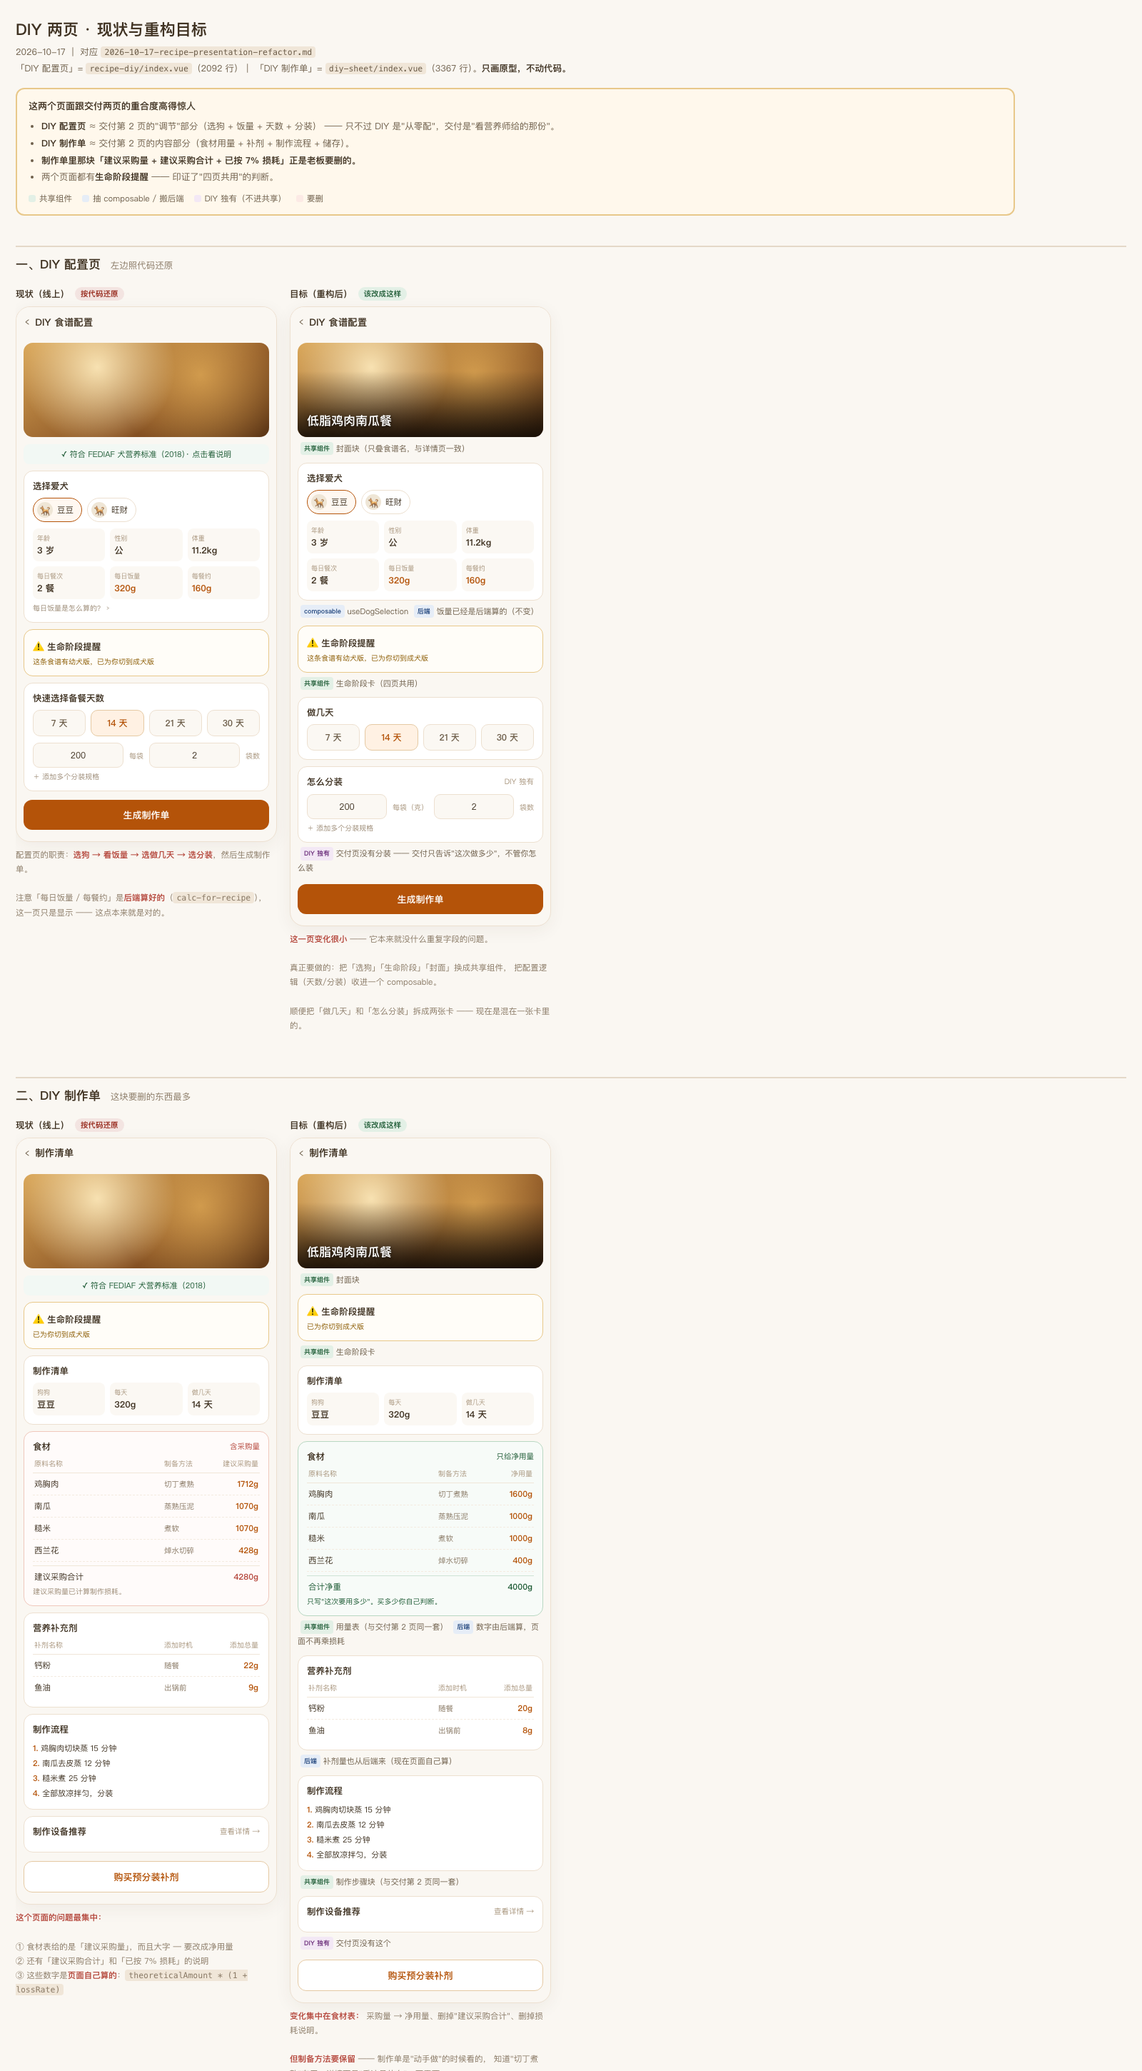
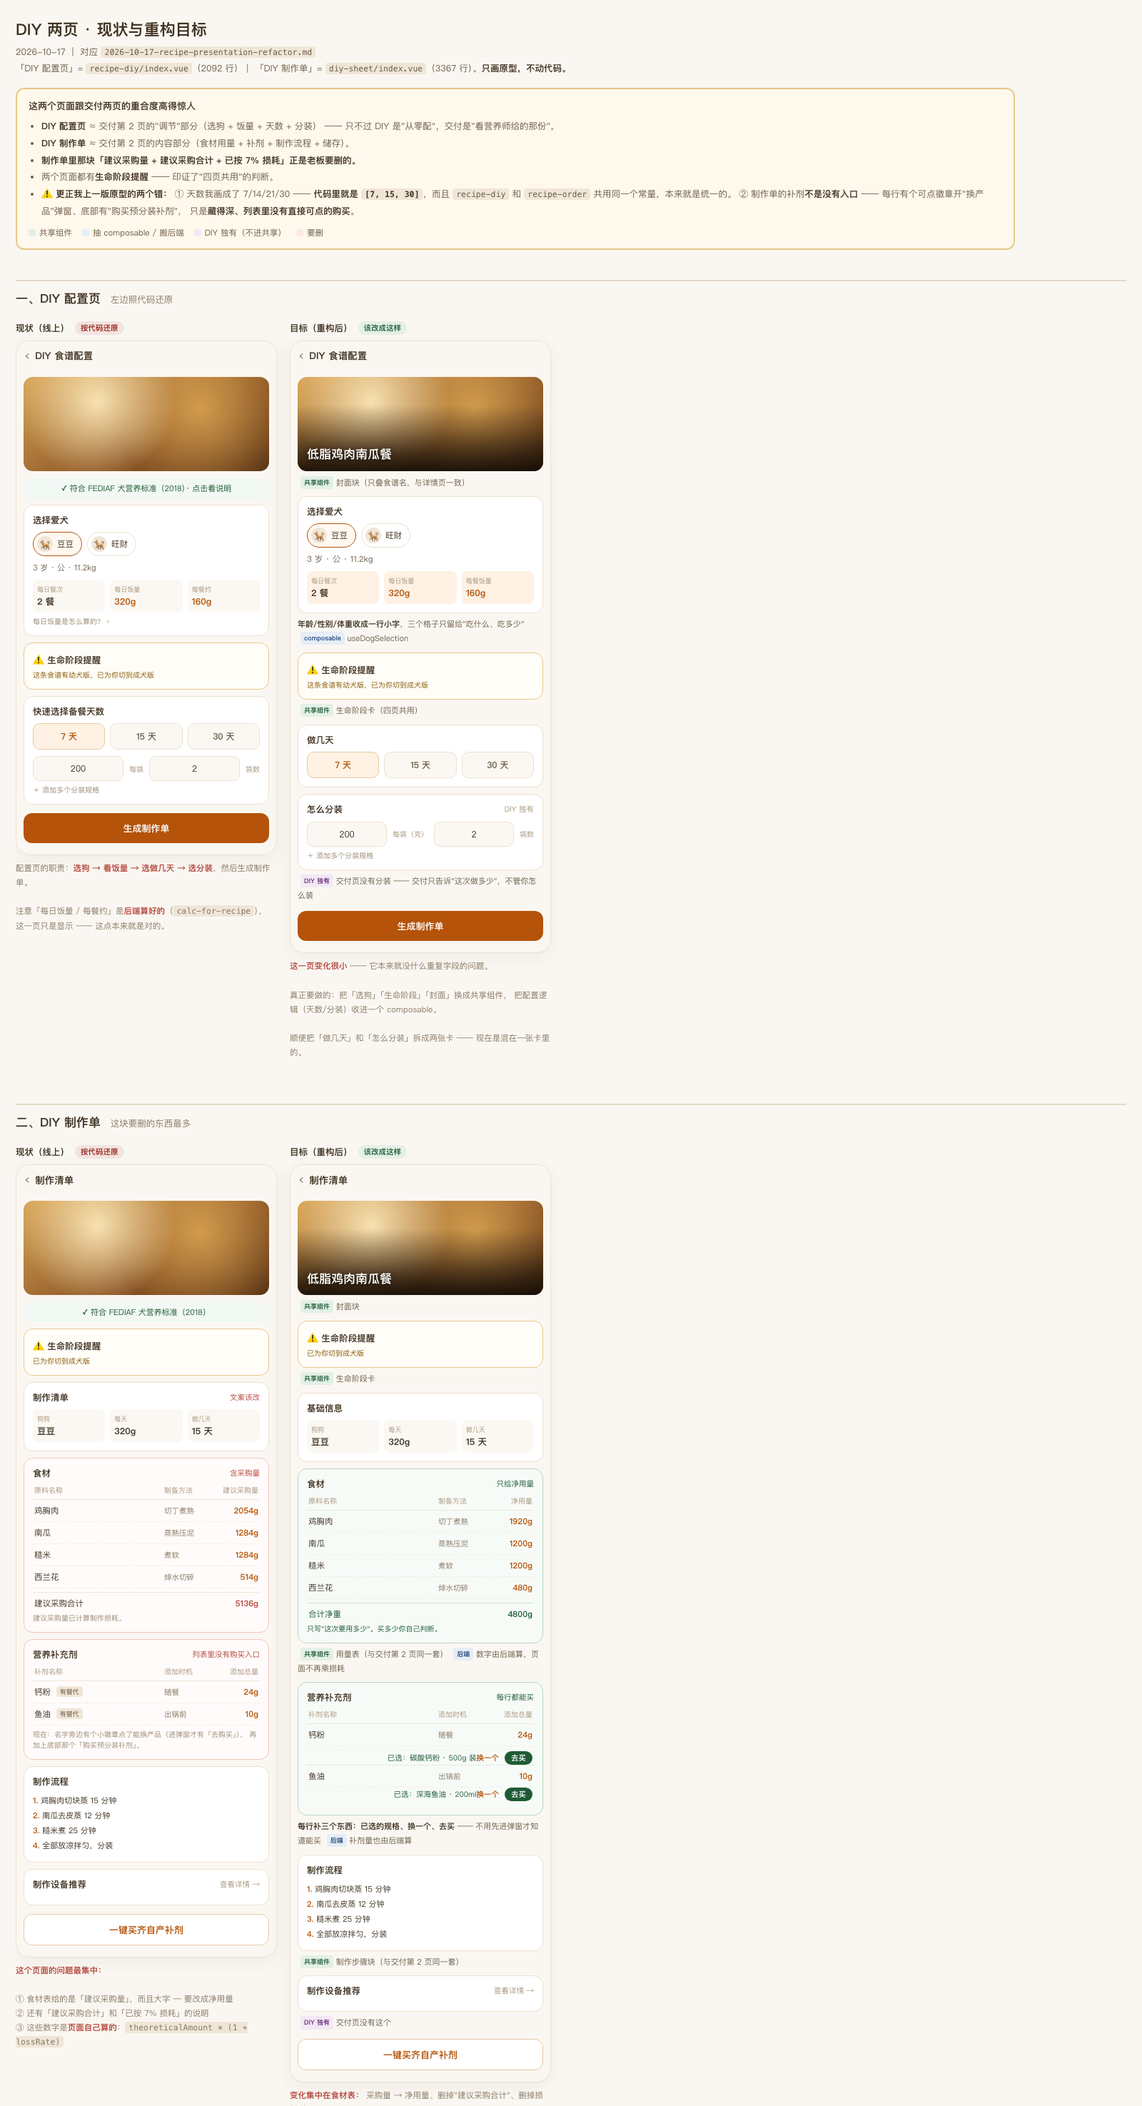
docs: DIY 两页四条修改落地（原型 + 重构需求）
老板审完原型给的四条。

## DIY 配置页

**① 爱犬信息收成一行小字**
年龄/性别/体重原来占三个格子 —— 太占篇幅。
改成选择器下方一行「3 岁 · 公 · 11.2kg」，
**三个格子只留给每日餐次 / 每日饭量 / 每餐饭量**（这三个才是决定配方的）。

**② 天数只展示 7 / 15 / 30 —— 代码里已经是了**

查了 `miniapp/src/utils/order-package-plan.ts:28`：

```js
export const ORDER_CYCLE_OPTIONS = [7, 15, 30] as const
export const DEFAULT_ORDER_CYCLE_DAYS = 7
```

而且 `recipe-diy` 和 `recipe-order` **共用同一个常量** —— 本来就是统一的。

**❌ 我上一版原型画成 7/14/21/30 是我编的**，不是代码里的。

## DIY 制作单

**③ 「制作清单」→「基础信息」**
那块列的是狗 / 每天多少 / 做几天，本来就是基础信息。

**④ 补剂表每行加购买入口**

现在只有两个入口，而且都藏得深：
- 名字旁边一个小徽章（点了才进弹窗，弹窗里才有「去购买」）
- 底部「购买预分装补剂」

**顾客不知道列表里就能买。** 改成每行直接给：
**已选规格 / 换一个 / 去买**。

补剂有两种来源，两种入口都要留：
- 每行「去买」= 买这一个（联盟跳转 / 加入自产订单）
- 底部「一键买齐自产补剂」= 把自产的都加上

只有底部按钮时，顾客会以为"补剂得一起买，不能单独挑"。

## 顺手修的两处原型错误

- 制作单「做几天」原来写着 14 天（不在 7/15/30 里），
  而净用量是按 14 天算的 —— 一起改成 15 天，数字全部重算
  （净 4800g / 采购 5136g / 补剂 24g+10g）
- 现状页原来被我一起改成了"基础信息"，已恢复成代码里真实的"制作清单"

diff --git a/docs/prototypes/2026-10-17-diy-pages-refactor.html b/docs/prototypes/2026-10-17-diy-pages-refactor.html
@@ -142,6 +142,11 @@
     <li><b>DIY 制作单</b> ≈ 交付第 2 页的内容部分（食材用量 + 补剂 + 制作流程 + 储存）。</li>
     <li><b>制作单里那块「建议采购量 + 建议采购合计 + 已按 7% 损耗」正是老板要删的。</b></li>
     <li>两个页面都有<b>生命阶段提醒</b> —— 印证了"四页共用"的判断。</li>
+    <li><b>⚠ 更正我上一版原型的两个错：</b>
+      ① 天数我画成了 7/14/21/30 —— <b>代码里就是 <code>[7, 15, 30]</b></code>，而且
+      <code>recipe-diy</code> 和 <code>recipe-order</code> 共用同一个常量，本来就是统一的。
+      ② 制作单的补剂<b>不是没有入口</b> —— 每行有个可点徽章开"换产品"弹窗、底部有"购买预分装补剂"，
+      只是<b>藏得深、列表里没有直接可点的购买</b>。</li>
   </ul>
   <div class="legend">
     <span><i style="background:#E3F0E6"></i>共享组件</span>
@@ -172,10 +177,10 @@
             <div class="dog dog--on"><span class="dog__av">🐕</span>豆豆</div>
             <div class="dog"><span class="dog__av">🐕</span>旺财</div>
           </div>
+          <div class="note-line" style="margin-top:8px;font-size:11px;color:#6E5F4B">
+            3 岁 · 公 · 11.2kg
+          </div>
           <div class="facts" style="margin-top:9px">
-            <div class="fact"><div class="fact__l">年龄</div><div class="fact__v">3 岁</div></div>
-            <div class="fact"><div class="fact__l">性别</div><div class="fact__v">公</div></div>
-            <div class="fact"><div class="fact__l">体重</div><div class="fact__v">11.2kg</div></div>
             <div class="fact"><div class="fact__l">每日餐次</div><div class="fact__v">2 餐</div></div>
             <div class="fact"><div class="fact__l">每日饭量</div><div class="fact__v fact__v--calc">320g</div></div>
             <div class="fact"><div class="fact__l">每餐约</div><div class="fact__v fact__v--calc">160g</div></div>
@@ -193,9 +198,8 @@
         <div class="card">
           <div class="sec__t">快速选择备餐天数</div>
           <div class="days">
-            <div class="day">7 天</div>
-            <div class="day day--on">14 天</div>
-            <div class="day">21 天</div>
+            <div class="day day--on">7 天</div>
+            <div class="day">15 天</div>
             <div class="day">30 天</div>
           </div>
           <div class="pack">
@@ -239,18 +243,18 @@
             <div class="dog dog--on"><span class="dog__av">🐕</span>豆豆</div>
             <div class="dog"><span class="dog__av">🐕</span>旺财</div>
           </div>
+          <div style="font-size:11.5px;color:#6E5F4B;margin-top:8px">
+            3 岁 · 公 · 11.2kg
+          </div>
           <div class="facts" style="margin-top:9px">
-            <div class="fact"><div class="fact__l">年龄</div><div class="fact__v">3 岁</div></div>
-            <div class="fact"><div class="fact__l">性别</div><div class="fact__v">公</div></div>
-            <div class="fact"><div class="fact__l">体重</div><div class="fact__v">11.2kg</div></div>
-            <div class="fact"><div class="fact__l">每日餐次</div><div class="fact__v">2 餐</div></div>
-            <div class="fact"><div class="fact__l">每日饭量</div><div class="fact__v fact__v--calc">320g</div></div>
-            <div class="fact"><div class="fact__l">每餐约</div><div class="fact__v fact__v--calc">160g</div></div>
+            <div class="fact" style="background:#FFF1E3"><div class="fact__l">每日餐次</div><div class="fact__v">2 餐</div></div>
+            <div class="fact" style="background:#FFF1E3"><div class="fact__l">每日饭量</div><div class="fact__v fact__v--calc">320g</div></div>
+            <div class="fact" style="background:#FFF1E3"><div class="fact__l">每餐饭量</div><div class="fact__v fact__v--calc">160g</div></div>
           </div>
         </div>
         <div class="sub" style="font-size:11px;margin:-3px 0 9px">
+          <b>年龄/性别/体重收成一行小字</b>，三个格子只留给"吃什么、吃多少"
           <span class="mark mark--logic">composable</span> useDogSelection
-          <span class="mark mark--logic">后端</span> 饭量已经是后端算的（不变）
         </div>
 
         <div class="card card--warn">
@@ -266,9 +270,8 @@
         <div class="card">
           <div class="sec__t">做几天</div>
           <div class="days">
-            <div class="day">7 天</div>
-            <div class="day day--on">14 天</div>
-            <div class="day">21 天</div>
+            <div class="day day--on">7 天</div>
+            <div class="day">15 天</div>
             <div class="day">30 天</div>
           </div>
         </div>
@@ -324,30 +327,34 @@
         </div>
 
         <div class="card">
-          <div class="sec__t">制作清单</div>
+          <div class="sec__t">制作清单 <em style="color:#b4453a">文案该改</em></div>
           <div class="facts">
             <div class="fact"><div class="fact__l">狗狗</div><div class="fact__v">豆豆</div></div>
             <div class="fact"><div class="fact__l">每天</div><div class="fact__v">320g</div></div>
-            <div class="fact"><div class="fact__l">做几天</div><div class="fact__v">14 天</div></div>
+            <div class="fact"><div class="fact__l">做几天</div><div class="fact__v">15 天</div></div>
           </div>
         </div>
 
         <div class="card card--del">
           <div class="sec__t">食材 <em style="color:#b4453a">含采购量</em></div>
           <div class="thead"><span class="th-n">原料名称</span><span class="th-m">制备方法</span><span class="th-r">建议采购量</span></div>
-          <div class="item"><span class="it-n">鸡胸肉</span><span class="it-m">切丁煮熟</span><span class="it-r">1712g</span></div>
-          <div class="item"><span class="it-n">南瓜</span><span class="it-m">蒸熟压泥</span><span class="it-r">1070g</span></div>
-          <div class="item"><span class="it-n">糙米</span><span class="it-m">煮软</span><span class="it-r">1070g</span></div>
-          <div class="item"><span class="it-n">西兰花</span><span class="it-m">焯水切碎</span><span class="it-r">428g</span></div>
-          <div class="total-line"><span>建议采购合计</span><b>4280g</b></div>
+          <div class="item"><span class="it-n">鸡胸肉</span><span class="it-m">切丁煮熟</span><span class="it-r">2054g</span></div>
+          <div class="item"><span class="it-n">南瓜</span><span class="it-m">蒸熟压泥</span><span class="it-r">1284g</span></div>
+          <div class="item"><span class="it-n">糙米</span><span class="it-m">煮软</span><span class="it-r">1284g</span></div>
+          <div class="item"><span class="it-n">西兰花</span><span class="it-m">焯水切碎</span><span class="it-r">514g</span></div>
+          <div class="total-line"><span>建议采购合计</span><b>5136g</b></div>
           <div class="note-line">建议采购量已计算制作损耗。</div>
         </div>
 
-        <div class="card">
-          <div class="sec__t">营养补充剂</div>
+        <div class="card card--del">
+          <div class="sec__t">营养补充剂 <em style="color:#b4453a">列表里没有购买入口</em></div>
           <div class="thead"><span class="th-n">补剂名称</span><span class="th-m">添加时机</span><span class="th-r">添加总量</span></div>
-          <div class="item"><span class="it-n">钙粉</span><span class="it-m">随餐</span><span class="it-r">22g</span></div>
-          <div class="item"><span class="it-n">鱼油</span><span class="it-m">出锅前</span><span class="it-r">9g</span></div>
+          <div class="item"><span class="it-n">钙粉 <span class="mark mark--keep">有替代</span></span><span class="it-m">随餐</span><span class="it-r">24g</span></div>
+          <div class="item"><span class="it-n">鱼油 <span class="mark mark--keep">有替代</span></span><span class="it-m">出锅前</span><span class="it-r">10g</span></div>
+          <div class="note-line">
+            现在：名字旁边有个小徽章点了能换产品（进弹窗才有「去购买」），
+            再加上底部那个「购买预分装补剂」。
+          </div>
         </div>
 
         <div class="card">
@@ -364,7 +371,7 @@
           <div class="sec__t">制作设备推荐 <em>查看详情 →</em></div>
         </div>
 
-        <div class="btn btn--line">购买预分装补剂</div>
+        <div class="btn btn--line">一键买齐自产补剂</div>
 
       </div>
     </div>
@@ -400,23 +407,23 @@
         </div>
 
         <div class="card">
-          <div class="sec__t">制作清单</div>
+          <div class="sec__t">基础信息</div>
           <div class="facts">
             <div class="fact"><div class="fact__l">狗狗</div><div class="fact__v">豆豆</div></div>
             <div class="fact"><div class="fact__l">每天</div><div class="fact__v">320g</div></div>
-            <div class="fact"><div class="fact__l">做几天</div><div class="fact__v">14 天</div></div>
+            <div class="fact"><div class="fact__l">做几天</div><div class="fact__v">15 天</div></div>
           </div>
         </div>
 
         <div class="card" style="border-color:#B9D8C2;background:#F7FBF8">
           <div class="sec__t">食材 <em style="color:#1e5b35">只给净用量</em></div>
           <div class="thead"><span class="th-n">原料名称</span><span class="th-m">制备方法</span><span class="th-r">净用量</span></div>
-          <div class="item"><span class="it-n">鸡胸肉</span><span class="it-m">切丁煮熟</span><span class="it-r">1600g</span></div>
-          <div class="item"><span class="it-n">南瓜</span><span class="it-m">蒸熟压泥</span><span class="it-r">1000g</span></div>
-          <div class="item"><span class="it-n">糙米</span><span class="it-m">煮软</span><span class="it-r">1000g</span></div>
-          <div class="item"><span class="it-n">西兰花</span><span class="it-m">焯水切碎</span><span class="it-r">400g</span></div>
+          <div class="item"><span class="it-n">鸡胸肉</span><span class="it-m">切丁煮熟</span><span class="it-r">1920g</span></div>
+          <div class="item"><span class="it-n">南瓜</span><span class="it-m">蒸熟压泥</span><span class="it-r">1200g</span></div>
+          <div class="item"><span class="it-n">糙米</span><span class="it-m">煮软</span><span class="it-r">1200g</span></div>
+          <div class="item"><span class="it-n">西兰花</span><span class="it-m">焯水切碎</span><span class="it-r">480g</span></div>
           <div class="total-line" style="border-color:#CFE3D5;color:#1e5b35">
-            <span>合计净重</span><b style="color:#1e5b35">4000g</b>
+            <span>合计净重</span><b style="color:#1e5b35">4800g</b>
           </div>
           <div class="note-line" style="color:#1e5b35">
             只写"这次要用多少"。买多少你自己判断。
@@ -427,14 +434,31 @@
           <span class="mark mark--logic">后端</span> 数字由后端算，页面不再乘损耗
         </div>
 
-        <div class="card">
-          <div class="sec__t">营养补充剂</div>
+        <div class="card" style="border-color:#B9D8C2;background:#F7FBF8">
+          <div class="sec__t">营养补充剂 <em style="color:#1e5b35">每行都能买</em></div>
           <div class="thead"><span class="th-n">补剂名称</span><span class="th-m">添加时机</span><span class="th-r">添加总量</span></div>
-          <div class="item"><span class="it-n">钙粉</span><span class="it-m">随餐</span><span class="it-r">20g</span></div>
-          <div class="item"><span class="it-n">鱼油</span><span class="it-m">出锅前</span><span class="it-r">8g</span></div>
+          <div class="item">
+            <span class="it-n">钙粉</span><span class="it-m">随餐</span><span class="it-r">24g</span>
+          </div>
+          <div class="item" style="border-bottom:1px dashed #CFE3D5;padding-bottom:0">
+            <span class="it-n" style="flex:1"></span>
+            <span style="font-size:10.5px;color:#1e5b35">已选：碳酸钙粉 · 500g 装</span>
+            <span style="font-size:10.5px;color:#B45309;font-weight:700;margin-left:auto">换一个</span>
+            <span style="font-size:10.5px;color:#fff;background:#1e5b35;border-radius:999px;padding:2px 9px;font-weight:700;margin-left:8px">去买</span>
+          </div>
+          <div class="item">
+            <span class="it-n">鱼油</span><span class="it-m">出锅前</span><span class="it-r">10g</span>
+          </div>
+          <div class="item" style="border-bottom:0;padding-top:0">
+            <span class="it-n" style="flex:1"></span>
+            <span style="font-size:10.5px;color:#1e5b35">已选：深海鱼油 · 200ml</span>
+            <span style="font-size:10.5px;color:#B45309;font-weight:700;margin-left:auto">换一个</span>
+            <span style="font-size:10.5px;color:#fff;background:#1e5b35;border-radius:999px;padding:2px 9px;font-weight:700;margin-left:8px">去买</span>
+          </div>
         </div>
         <div class="sub" style="font-size:11px;margin:-3px 0 9px">
-          <span class="mark mark--logic">后端</span> 补剂量也从后端来（现在页面自己算）
+          <b>每行补三个东西：已选的规格、换一个、去买</b> —— 不用先进弹窗才知道能买
+          <span class="mark mark--logic">后端</span> 补剂量也由后端算
         </div>
 
         <div class="card">
@@ -457,7 +481,7 @@
           <span class="mark mark--diy">DIY 独有</span> 交付页没有这个
         </div>
 
-        <div class="btn btn--line">购买预分装补剂</div>
+        <div class="btn btn--line">一键买齐自产补剂</div>
 
       </div>
     </div>
@@ -503,6 +527,30 @@
     <td style="color:#23477e;font-weight:700">抽逻辑</td>
     <td>选狗 / 天数选择 / 分装配置</td>
     <td><code>useDogSelection</code> + <code>usePackagePlan</code></td>
+  </tr>
+  <tr>
+    <td class="new" style="font-weight:700">改</td>
+    <td><b>爱犬信息收成一行小字</b></td>
+    <td>年龄/性别/体重不再占三个格子（太占篇幅），改成选择器下方一行
+      「3 岁 · 公 · 11.2kg」；<b>三个格子只留给每日餐次 / 每日饭量 / 每餐饭量</b></td>
+  </tr>
+  <tr>
+    <td class="new" style="font-weight:700">确认</td>
+    <td><b>天数只留 7 / 15 / 30</b></td>
+    <td><b>代码里已经是这样</b>（<code>ORDER_CYCLE_OPTIONS = [7, 15, 30]</code>），
+      而且 <code>recipe-diy</code> 与 <code>recipe-order</code> 共用同一个常量 —— 无需改动。
+      <b>我上一版原型画成 7/14/21/30 是我编的</b></td>
+  </tr>
+  <tr>
+    <td class="new" style="font-weight:700">改</td>
+    <td><b>制作单「制作清单」→「基础信息」</b></td>
+    <td>原本文案不准确 —— 那块列的是狗、每天多少、做几天，属于基础信息</td>
+  </tr>
+  <tr>
+    <td class="new" style="font-weight:700">改</td>
+    <td><b>补剂表每行加「换一个 / 去买」</b></td>
+    <td>现在只有：名字旁边一个小徽章（进弹窗才有去购买）+ 底部「一键买齐」。
+      <b>顾客不知道列表里就能买</b>。改成每行直接给：已选规格 / 换一个 / 去买</td>
   </tr>
   <tr>
     <td style="color:#6b2e7a;font-weight:700">DIY 独有</td>

diff --git a/docs/plans/2026-10-17-recipe-presentation-refactor.md b/docs/plans/2026-10-17-recipe-presentation-refactor.md
@@ -196,6 +196,23 @@ const actualAmount = theoreticalAmount * (1 + lossRate)
 
 ---
 
+## 四之三、DIY 两页的四条修改（老板 2026-10-17 审原型后定）
+
+| # | 改什么 | 说明 |
+|---|---|---|
+| 1 | **爱犬信息收成一行小字** | 年龄 / 性别 / 体重不再占三个格子（太占篇幅），改成选择器下方一行「3 岁 · 公 · 11.2kg」。**三个格子只留给每日餐次 / 每日饭量 / 每餐饭量** |
+| 2 | **天数只展示 7 / 15 / 30** | ✅ **代码里已经是**（`ORDER_CYCLE_OPTIONS = [7, 15, 30]`），且 `recipe-diy` 与 `recipe-order` **共用同一个常量** —— 无需改动。我画原型时写成 7/14/21/30 是编的 |
+| 3 | **制作单「制作清单」→「基础信息」** | 那块列的是狗 / 每天多少 / 做几天，本来就是基础信息 |
+| 4 | **补剂表每行加购买入口** | 现在只有「名字旁边一个小徽章（进弹窗才有去购买）」+ 底部「一键买齐」。<br />**顾客不知道列表里就能买** → 每行直接给：**已选规格 / 换一个 / 去买** |
+
+> **第 4 条的设计**：补剂有两种来源，两种入口都要有 ——
+> · **每行的「去买」** = 买这一个（联盟商品跳转、或加入自产订单）
+> · **底部「一键买齐自产补剂」** = 把自产的都加上
+>
+> 只有底部那个按钮时，顾客会以为"补剂得一起买，不能单独挑"。
+
+---
+
 ## 五、生命阶段匹配：一个被漏掉的跨页共享模块
 
 > 老板 2026-10-17 追问："食谱详情页，成品订购、DIY 制作、食谱定制相关的页面和板块，
